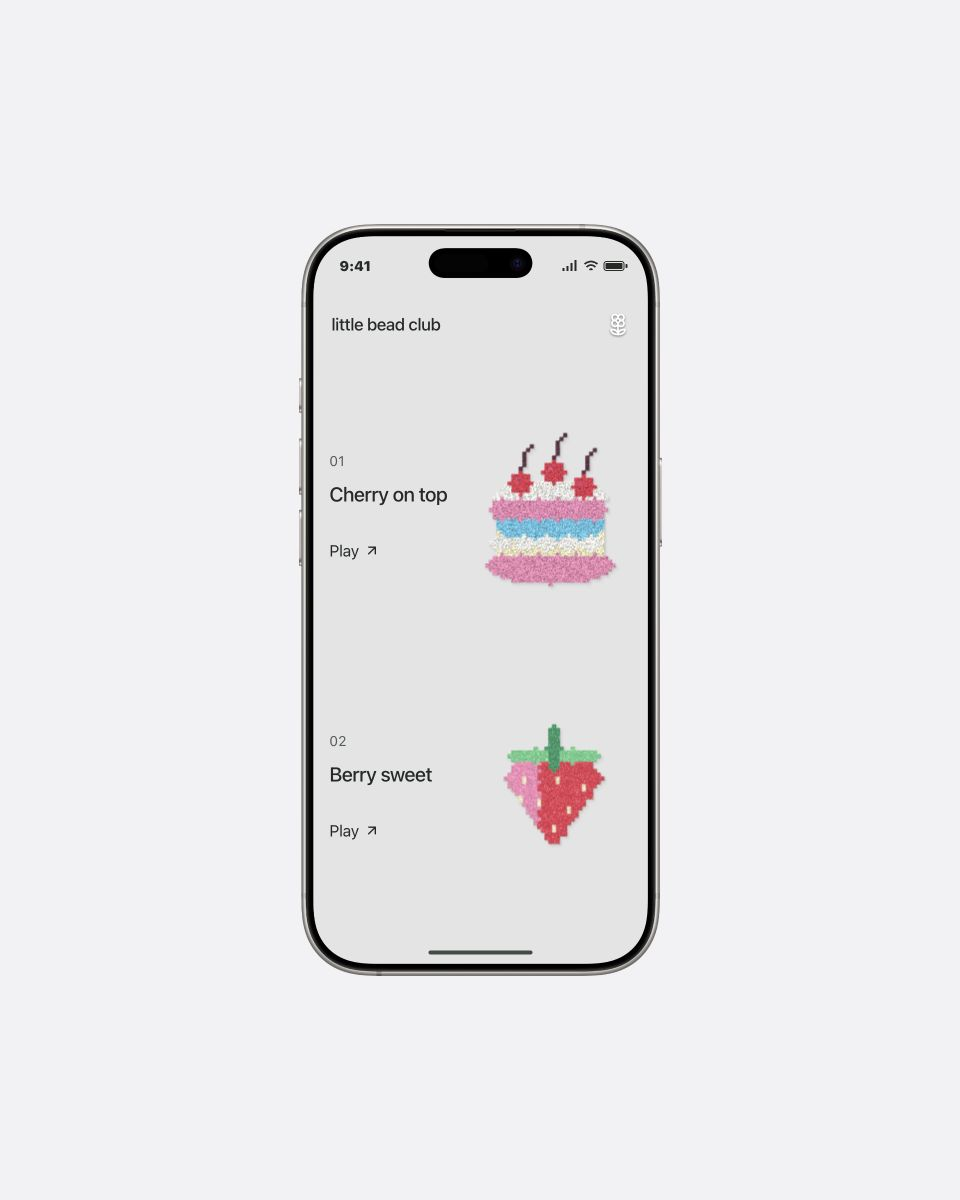
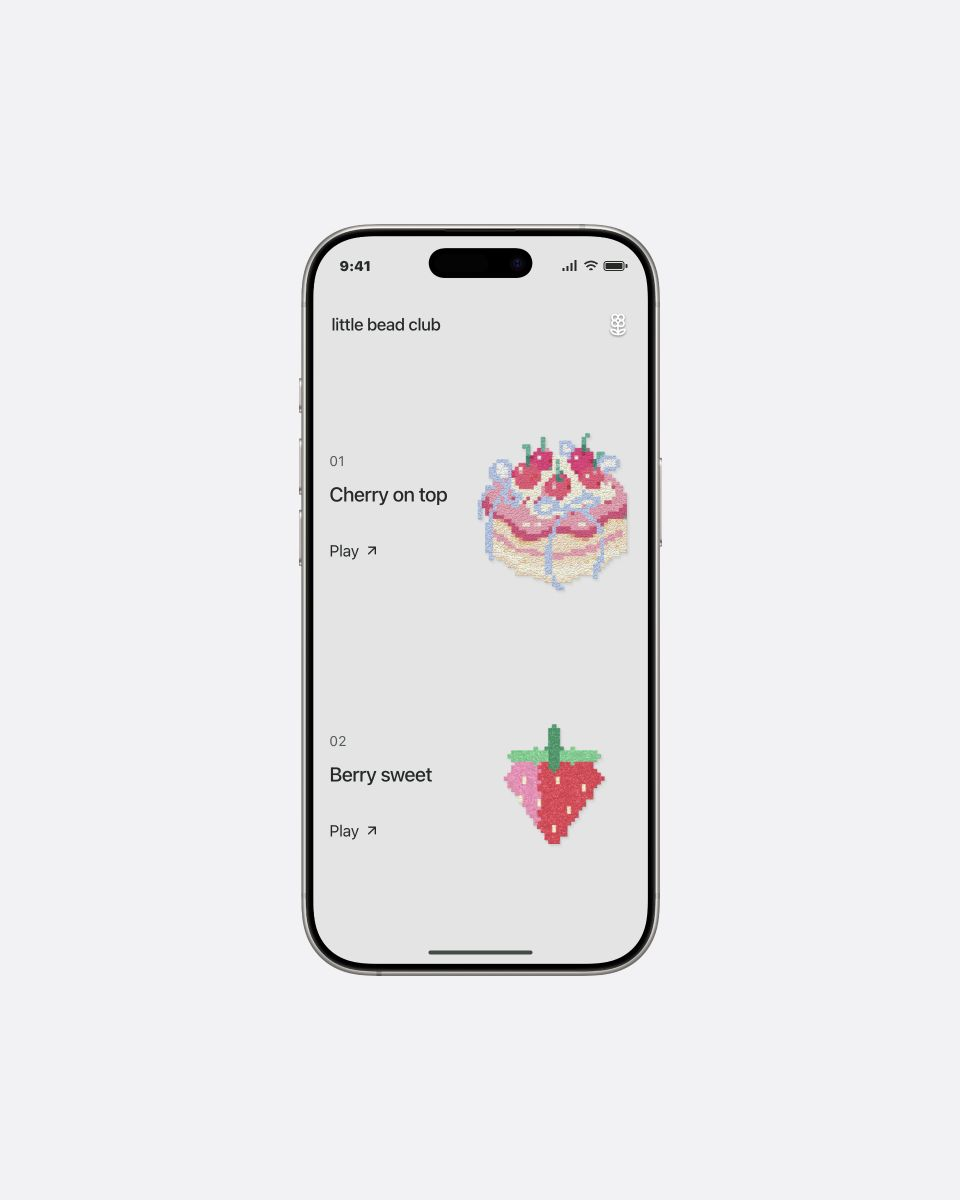
Recreate the cake from the supplied bead chart

Changed region(s): [[0.5, 0.3392, 0.6562, 0.4933]]

diff --git a/components/play/bead-club/bead-club.tsx b/components/play/bead-club/bead-club.tsx
@@ -19,8 +19,78 @@ type Artwork = { material: BeadMaterial; id: string; name: string; category: "Sw
 const PHONE_HEIGHT = 390 * 2822 / 1406;
 const P = { pink: "#ff90bd", rose: "#e75793", cream: "#fff2c7", white: "#fffdf4", blue: "#65cff1", red: "#ed3551", dark: "#5b2940", green: "#6cd690", leaf: "#279d69", yellow: "#ffdf53", brown: "#bf8050" };
 
-// Original patterns, made from a bead grid rather than flattened pictures.
-// Every occupied cell is a separate bead and can be replayed in placement order.
+// Cake transcribed from the supplied 50×50 Mard-144 chart. Exterior H2 cells
+// are transparent; enclosed white centers remain beads. The cropped grid is 40×42.
+const CAKE_CODES = ["A11","B10","B18","B7","C13","E1","E6","F1","F12","F14","F2","F6","F9","G1","G12","G15","G16","H12","H14","H2","H8"] as const;
+const CAKE_PALETTE: Record<(typeof CAKE_CODES)[number], string> = {
+  "A11": "#f5d19a",
+  "B10": "#5ebba4",
+  "B18": "#8dcdbd",
+  "B7": "#248e7c",
+  "C13": "#b9cef0",
+  "E1": "#ffd1ce",
+  "E6": "#f42f7e",
+  "F1": "#ff9c85",
+  "F12": "#ff557b",
+  "F14": "#ffa3b8",
+  "F2": "#ff3552",
+  "F6": "#c81948",
+  "F9": "#e44c7f",
+  "G1": "#ffe2c5",
+  "G12": "#ffd096",
+  "G15": "#fff8de",
+  "G16": "#ffe8dc",
+  "H12": "#f5f6ed",
+  "H14": "#cbd1ca",
+  "H2": "#fffdf5",
+  "H8": "#92898a"
+};
+const CAKE_GRID = [
+  ".............................B..........",
+  ".................B..........B...........",
+  ".................B....EEE...B...........",
+  "............BB...B....ETEE..D...........",
+  ".............B..GBJ...ETTEMGDU..........",
+  ".............B.GGGGG..EEEGGGLGG.BB......",
+  ".............DLGTGGGPPPTEGTGGGG.BEEEE...",
+  ".....EEE.....DGGGGGLPBPTGGGGGGLDEETTTE..",
+  "....ETTEE..IIDIIGGGGPCPPPGGGGGGDETTTTE..",
+  "...EETTTE.IPIIIIGGGUPBPPPGGGGIIUITEEE...",
+  "...EETTTEGIJIIIIIPPPPCDPPPLGIIIJIJE.....",
+  "...EEETTEGIIIIIKIPPPIDIGPPPGIRIIIIJJ....",
+  "....EEEJEPIIIIKIIPPIIDDIIPPIIIIIIIJJJ...",
+  "....JJEEEPIIIIIGPPGIJIIIKPPPIIIILPJPJJ..",
+  "..EEEJJEEPPIIIIPPJIIFIIILPPPPIIIIPPPMJJ.",
+  "..EJJJEEJEPPPPPPPJIIIIIIIPPPEPPPPPPPPJJ.",
+  ".EJJJJEEJEEEPPPPPJJIIIIIPPPPEEEPPPPPPJJJ",
+  ".EMJJEJEJMEEPMPPMEEEPMMPPPEEEEEEEPPPJJJJ",
+  "EMMJEEJEEEEPMPPMEEEEEEPPTEEEPPPEEPMMJJJJ",
+  "EMMMEJJJJEEJJPPEEPPPEEPEEPPPJEEEJJJJJJJM",
+  "E.MJEJJJJJJJJJPEEPPEEEEEEEEEEEJJJJJJJJMM",
+  "E.MEMJJJJJJJJJPPEEEEPPPEJMJJEEJJJJJMMMMM",
+  "E..EMMMJJJJJJJJJPPPPJMEEJJJJJEEJJMMMMMMU",
+  "...ENAHMMJJJJJJJJJJJJEJJJJJJJJEEMMMONOON",
+  "..EENNQOMMJJPPJFPJJJJEJJJJJPPJJJEMONNNNN",
+  "..EENNNQOMMJJJJJJJJMEMMMMJJJJJIMESNNNNNN",
+  "..EEJNNNQMMMMJJJJMMMEMMMMMMMMMMMEENNNJJN",
+  "..EEJJJNNOMMMMMMMMMEENNNOHMMMMMONNNJJJJN",
+  "..EENJJJNNOHMMMMHNNENNNNNNOOHHQNNEJJJNNN",
+  "..EENNNJJNNAOOANNNNENNNNNNNNNNNNJEJNNNNN",
+  "..EEPPNNJJNNNNNNNNEENNNNNNNNNJJJJENNQAPP",
+  "..EENPPANNJJJJJJNNEENNNNNJJJJJJJNENQPPNN",
+  "...EQQPPPNNNNNJJJJEEJJJJJJJJJNNNPEPPPP..",
+  "...E.NNNPPPPNNNNNNEEJJJNNNNNNNNOEEPN....",
+  ".......NNPPNANNNNNEENNNNNNNNNAPPEEN.....",
+  "........NNNPPPQQQNEENNNQQNQQPPPEEN......",
+  "..........NPPPPPPPEEPPPPPPPPPPNEE.......",
+  "..........NNNNNNPPEEPPPPPPPNNNPE........",
+  "...............NNNNPEPPPNNN....E........",
+  "..................NNENNNN...............",
+  "....................EE..................",
+  ".....................EE.................",
+];
+
+// Other patterns are procedural. Every occupied cell can be replayed in color order.
 function makePattern(id: string): Bead[] {
   const cells = new Map<string, Bead>();
   const dot = (x: number, y: number, color: string) => cells.set(`${x},${y}`, { x, y, color });
@@ -37,17 +107,10 @@ function makePattern(id: string): Bead[] {
     for (let i = 0; i <= steps; i++) dot(Math.round(x1 + (x2 - x1) * i / steps), Math.round(y1 + (y2 - y1) * i / steps), color);
   };
   if (id === "cake") {
-    oval(19, 35, 17, 5, P.pink);
-    rect(5, 21, 29, 13, P.cream); oval(19, 32, 14, 5, P.cream);
-    rect(5, 19, 29, 7, P.blue); oval(19, 25, 14, 4, P.blue);
-    for (let x = 6; x < 34; x += 6) oval(x, 29, 3, 2, P.white);
-    rect(5, 16, 29, 6, P.pink); oval(19, 17, 15, 5, P.white);
-    for (let x = 6; x < 35; x += 5) oval(x, 20, 3, 3, P.pink);
-    for (let x = 6; x < 35; x += 5) oval(x, 35, 3, 3, P.pink);
-    for (const [x, y] of [[11, 13], [20, 10], [28, 14]]) {
-      line(x, y - 2, x + 1, y - 8, P.dark); line(x + 1, y - 8, x + 3, y - 10, P.dark);
-      oval(x, y, 3, 3, P.red); dot(x - 1, y - 1, P.rose);
-    }
+    CAKE_GRID.forEach((row, y) => [...row].forEach((cell, x) => {
+      const code = CAKE_CODES[cell.charCodeAt(0) - 65];
+      if (code) dot(x, y, CAKE_PALETTE[code]);
+    }));
   } else if (id === "berry") {
     for (let y = 11; y < 35; y++) {
       const width = y < 17 ? 9 + (y - 11) * .6 : 13 - (y - 17) * .7;
@@ -511,7 +574,8 @@ export function BeadClub({ loop = false, className }: BeadClubProps) {
   const lastCard = React.useRef<HTMLButtonElement | null>(null);
   const reduced = !!useReducedMotion();
   const [scale, setScale] = React.useState(.8);
-  const [selected, setSelected] = React.useState<Artwork | null>(null);
+  const [selectedId, setSelectedId] = React.useState<string | null>(null);
+  const selected = artworks.find(art => art.id === selectedId) ?? null;
   React.useEffect(() => {
     const element = host.current;
     if (!element || !loop) return;
@@ -521,17 +585,17 @@ export function BeadClub({ loop = false, className }: BeadClubProps) {
   }, [loop]);
   React.useEffect(() => {
     if (!loop || reduced) return;
-    const open = setTimeout(() => setSelected(artworks[0]), 2600);
-    const close = setTimeout(() => setSelected(null), 13600);
+    const open = setTimeout(() => setSelectedId(artworks[0].id), 2600);
+    const close = setTimeout(() => setSelectedId(null), 13600);
     const cycle = setInterval(() => {
-      setSelected(artworks[0]);
-      const timer = setTimeout(() => setSelected(null), 11000);
+      setSelectedId(artworks[0].id);
+      const timer = setTimeout(() => setSelectedId(null), 11000);
       pending.push(timer);
     }, 16200);
     const pending: ReturnType<typeof setTimeout>[] = [];
     return () => { clearTimeout(open); clearTimeout(close); clearInterval(cycle); pending.forEach(clearTimeout); };
   }, [loop, reduced]);
-  const close = () => { setSelected(null); requestAnimationFrame(() => lastCard.current?.focus({ preventScroll: true })); };
+  const close = () => { setSelectedId(null); requestAnimationFrame(() => lastCard.current?.focus({ preventScroll: true })); };
   return <div ref={host} className={`bc-stage ${className ?? ""}`} data-preview={loop ? "loop" : "interactive"}>
     <style>{styles}</style>
     <div className="bc-phone-space" style={loop ? { width: 390 * scale, height: PHONE_HEIGHT * scale } : undefined}><div className="bc-phone" style={loop ? { width: 390, height: PHONE_HEIGHT, transform: `scale(${scale})` } : undefined}>
@@ -541,7 +605,7 @@ export function BeadClub({ loop = false, className }: BeadClubProps) {
         <div className="bc-collection" inert={!!selected}>
           <header className="bc-header"><span>little bead club</span><Flower2 className="bc-flower" size={24} strokeWidth={1.8} aria-hidden="true" /></header>
           <div className="bc-list" aria-label="Bead collection">
-            {artworks.map((art, index) => <button className="bc-card" key={art.id} onClick={event => { lastCard.current = event.currentTarget; setSelected(art); }} aria-label={`Open ${art.name}`}>
+            {artworks.map((art, index) => <button className="bc-card" key={art.id} onClick={event => { lastCard.current = event.currentTarget; setSelectedId(art.id); }} aria-label={`Open ${art.name}`}>
               <div className="bc-card-copy"><span className="bc-number">{String(index + 1).padStart(2, "0")}</span><h2>{art.name}</h2><span className="bc-card-link">Play <ArrowUpRight size={16} /></span></div>
               <div className="bc-art-panel"><BeadArt art={art} /></div>
             </button>)}

diff --git a/src/lib/component-registry.ts b/src/lib/component-registry.ts
@@ -109,7 +109,7 @@ export const componentRegistry = {
     index: "022",
     title: "Bead Club",
     description:
-      "A minimal collection of six original bead patterns, including a soft terry-textured cake with fine shimmer and other pearlescent fused-bead finishes, inside an official silver iPhone 16 Pro bezel on a transparent stage. Open a tiny cake, strawberry or little friend and replay its creation bead by bead.",
+      "A minimal collection of six bead patterns, including a cherry cake recreated from a Mard-144 chart with soft terry texture and fine shimmer, inside an official silver iPhone 16 Pro bezel on a transparent stage. Open a cake, strawberry or little friend and replay its creation bead by bead.",
     category: "Play",
     status: "NEW",
     statusClassName: "bg-[var(--jitter-orange)]/12 text-[var(--jitter-orange)]",

diff --git a/components/play/bead-club/README.md b/components/play/bead-club/README.md
@@ -1,6 +1,6 @@
 # Bead Club
 
-A minimal collection of six original bead patterns, including a soft terry-textured cake with fine shimmer and other pearlescent fused-bead finishes, inside an official silver iPhone 16 Pro bezel on a transparent stage. Open a tiny cake, strawberry or little friend and replay its creation bead by bead.
+A minimal collection of six bead patterns, including a cherry cake recreated from a Mard-144 chart with soft terry texture and fine shimmer, inside an official silver iPhone 16 Pro bezel on a transparent stage. Open a cake, strawberry or little friend and replay its creation bead by bead.
 
 ![Bead Club preview](https://atomicmotion.dev/previews/bead-club.png)
 
